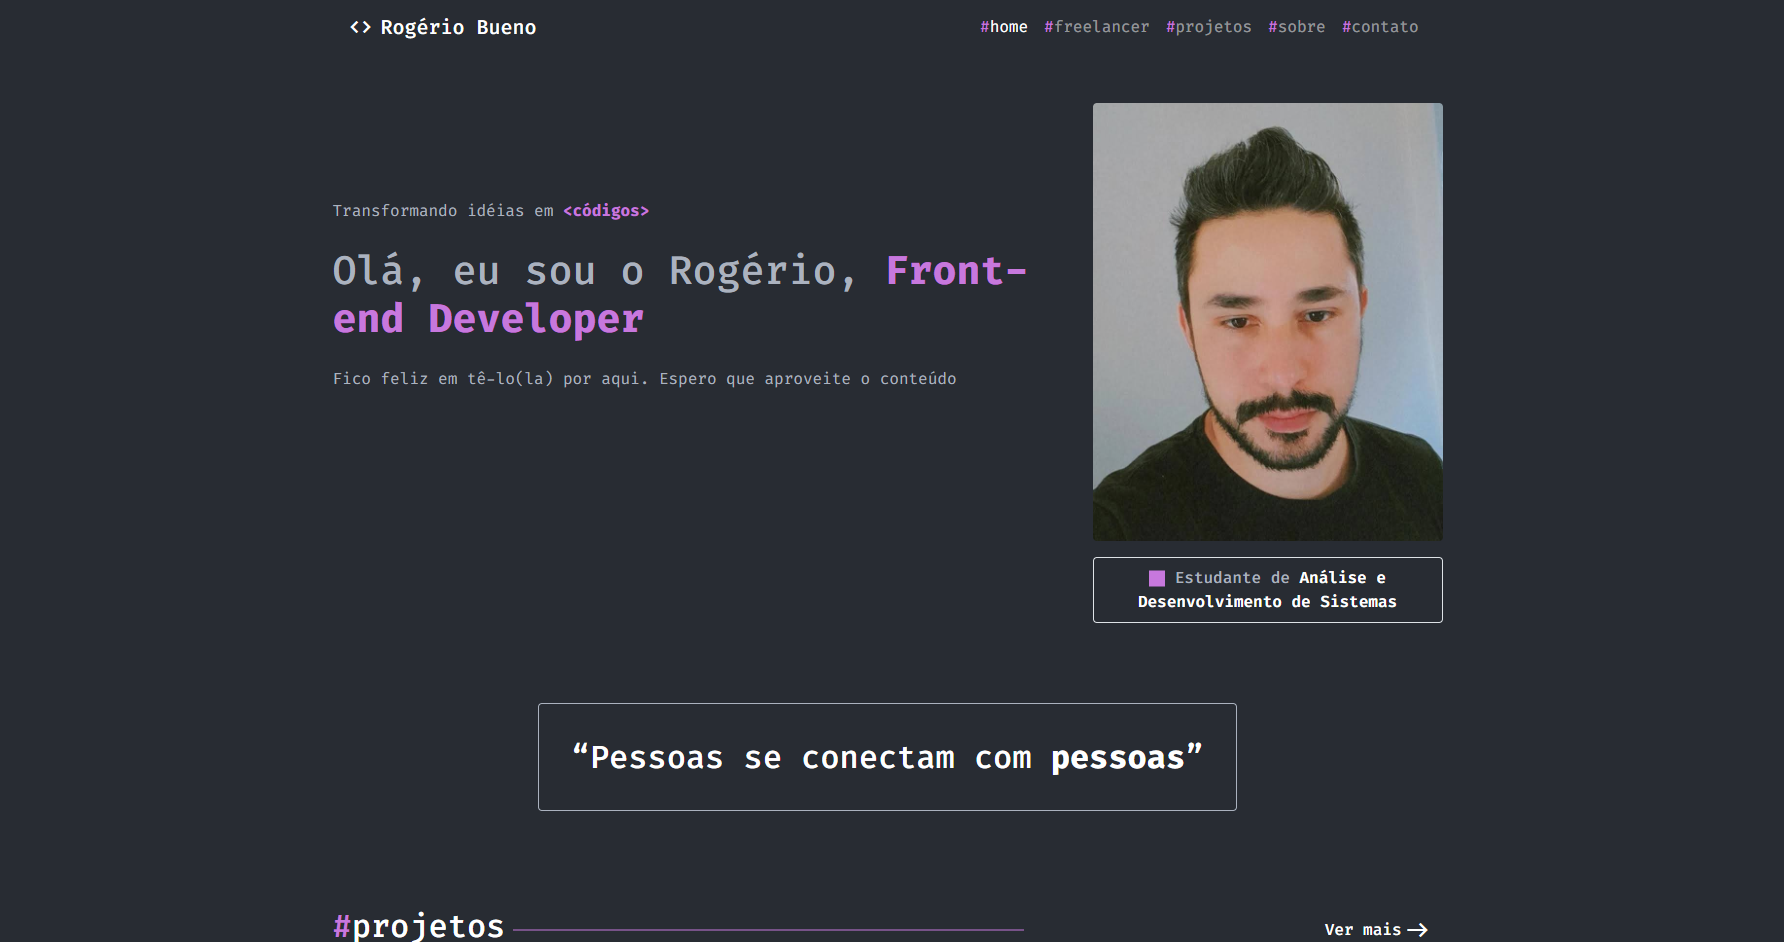
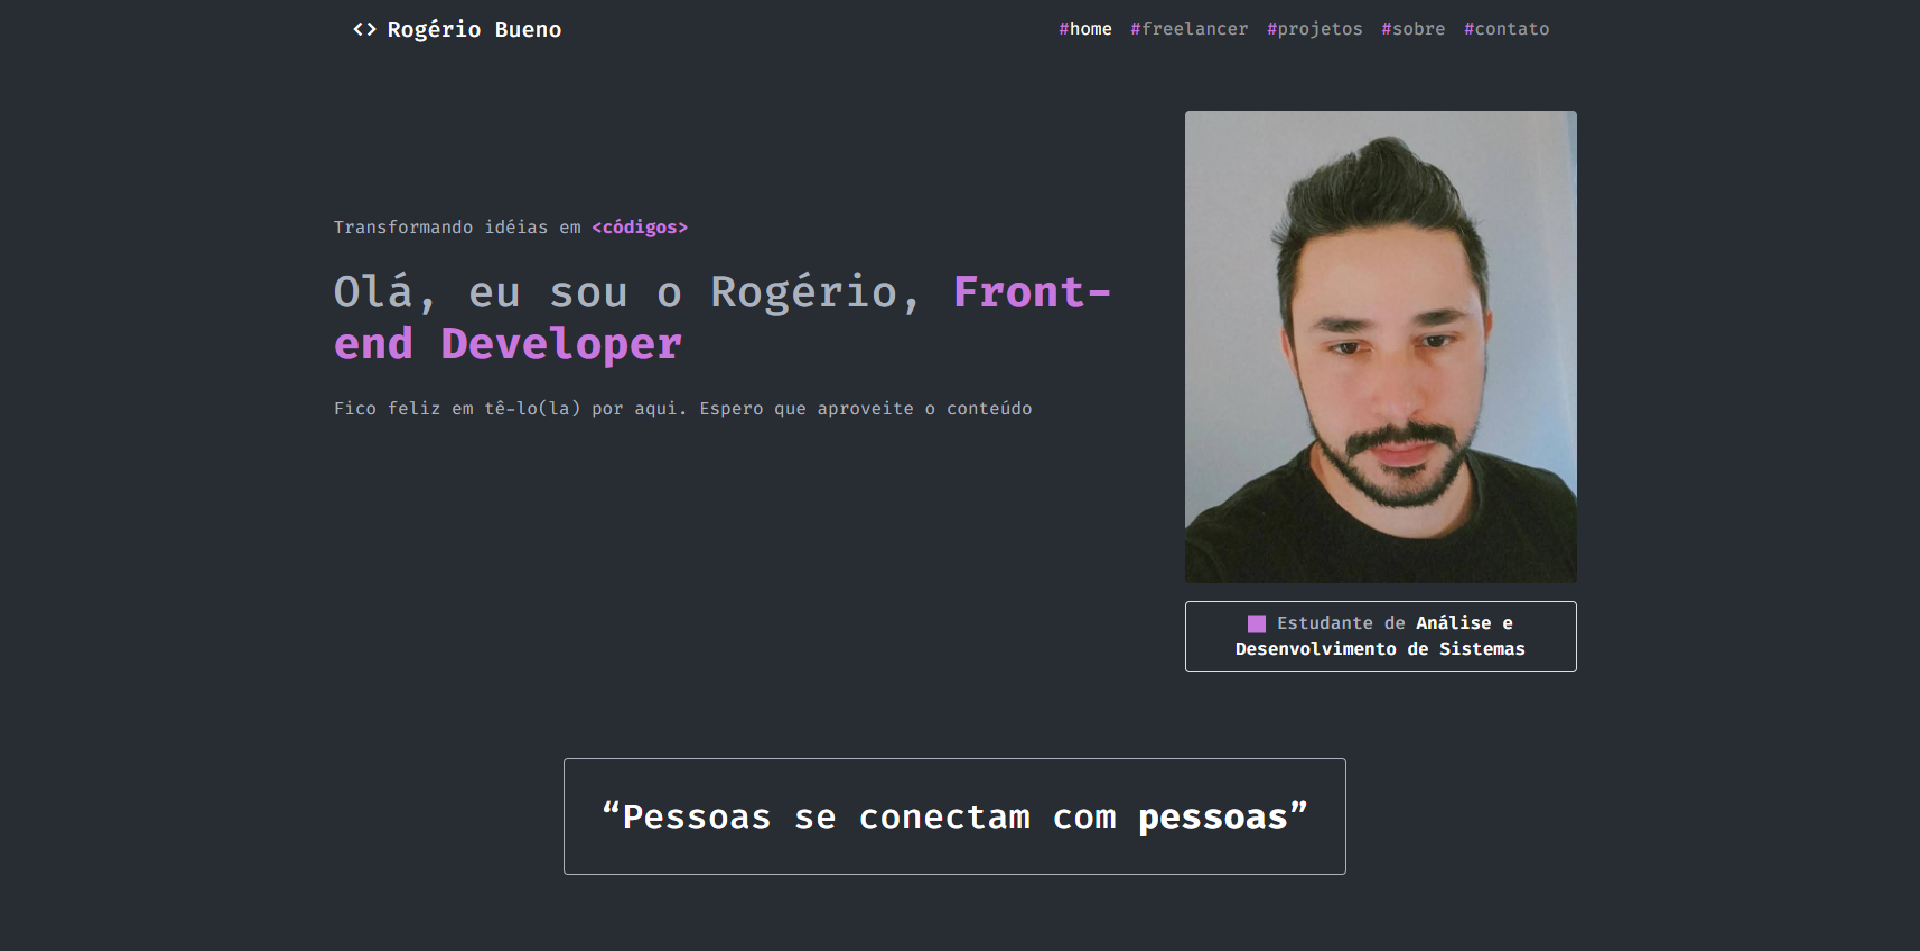
feat: Adiciona últimos projetos a seção últimos projetos da página 'Home'

diff --git a/index.html b/index.html
@@ -8,12 +8,13 @@
     <!-- Bootstrap CSS -->
     <link href="https://cdn.jsdelivr.net/npm/bootstrap@5.3.3/dist/css/bootstrap.min.css" rel="stylesheet"
         integrity="sha384-QWTKZyjpPEjISv5WaRU9OFeRpok6YctnYmDr5pNlyT2bRjXh0JMhjY6hW+ALEwIH" crossorigin="anonymous">
-        
+
     <link rel="shortcut icon" href="/assets/image/code.svg" type="image/x-icon">
     <link rel="stylesheet" href="/assets/css/colors.css">
     <link rel="stylesheet" href="/assets/css/styles.min.css">
     <link rel="stylesheet" href="/assets/css/navbar.css">
     <link rel="stylesheet" href="/assets/css/home-page.css">
+    <link rel="stylesheet" href="/assets/css/card.css">
     <link rel="stylesheet" href="/assets/css/footer.css">
     <!-- Phosphoricons -->
     <script src="https://unpkg.com/@phosphor-icons/web"></script>
@@ -24,7 +25,8 @@
         <nav class="navbar navbar-expand-lg container">
             <div class="container-fluid px-sm-0">
                 <a class="navbar-brand" href="/">
-                    <img src="/assets/image/code.svg" alt="Logo" width="30" height="24" class="d-inline-block align-text-top">
+                    <img src="/assets/image/code.svg" alt="Logo" width="30" height="24"
+                        class="d-inline-block align-text-top">
                     Rogério Bueno
                 </a>
                 <button class="navbar-toggler" type="button" data-bs-toggle="offcanvas"
@@ -66,7 +68,8 @@
         <section class="container my-5">
             <h1 class="display-4">Olá, eu sou o Rogério, Front-end Developer</h1>
             <p class="text-muted">Transformando idéias em &lt;códigos&gt;</p>
-            <a class="btn btn-secondary rounded-5 px-5 py-2 my-5" href="/assets/downloads/Currículo - Rogério Bueno.pdf" target="_blank" rel="noopener noreferrer">
+            <a class="btn btn-secondary rounded-5 px-5 py-2 my-5" href="/assets/downloads/Currículo - Rogério Bueno.pdf"
+                target="_blank" rel="noopener noreferrer">
                 Baixe o meu currículo
                 <i class="ph ph-arrow-line-up-right text-white"></i>
             </a>
@@ -74,24 +77,47 @@
         <section class="container my-5">
             <h2 class="my-5 h4">Últimos projetos</h2>
 
-            <div class="row g-4">
-                <div class="col-sm-3">
-                  <div class="card">
-                    <a href="https://rogerio-bueno.github.io/portfolio" target="_blank" rel="noopener noreferrer">
-                        <img src="/assets/image/portfolio-completo.png" class="card-img-top rounded" alt="Imagem de um site portfólio" title="Portfólio feito em Bootstrap 5">
-                        
-                    </a>
-                  </div>
-                </div>
-
-                <div class="col-sm-3">
-                    <div class="card">
-                      <a href="https://www.tinkercad.com/things/dLl77V2JD1Z-sensor-de-estacionamento" target="_blank" rel="noopener noreferrer">
-                          <img src="/assets/image/sensor-estacionamento-arduino.png" class="card-img-top rounded" alt="Imagem de um site portfólio" title="Sensor de estacionamento desenvolvido em C++">
-                          
-                      </a>
+            <div class="row row-cols-1 row-cols-md-3 g-4">
+                <div class="col">
+                    <div class="card h-100 border-0">
+                        <div class="card-body">
+                            <a href="https://rogerio-bueno.github.io/portfolio"
+                                class="link-dark link-underline link-underline-opacity-0" target="_blank"
+                                rel="noopener noreferrer">
+                                <img src="/assets/image/portfolio-completo.png" class="card-img"
+                                    alt="Captura de tela de um portfólio desenvolvido com Bootstrap, mostrando um layout responsivo e moderno com seções bem organizadas e elementos visuais atraentes."
+                                    title="Este é o meu portfólio, resultado do primeiro trimestre na faculdade de Análise e Desenvolvimento de Sistemas. Construído com os conhecimentos adquiridos até agora. Demonstrando não apenas o que aprendi, mas também minha dedicação em aplicá-los.">
+                            </a>
+                        </div>
                     </div>
-                  </div>
+                </div>
+                <div class="col">
+                    <div class="card h-100 border-0">
+                        <div class="card-body">
+                            <a href="https://rogerio-bueno.github.io/dio-classificador-de-nivel-de-heroi"
+                                class="link-dark link-underline link-underline-opacity-0" target="_blank"
+                                rel="noopener noreferrer">
+                                <img src="/assets/image/classificador-nivel-de-heroi.png" class="card-img"
+                                    alt="Captura de tela de um site classificador de níveis de heróis em um jogo, exibindo uma interface gráfica com informações sobre os personagens e seus respectivos níveis"
+                                    title="Este projeto é resultado da atividade prática proposta no bootcamp Potência Tech iFood - Programação do Zero da DIO (Digital Innovation One).">
+                            </a>
+                        </div>
+                    </div>
+                </div>
+                <div class="col">
+                    <div class="card h-100 border-0">
+                        <div class="card-body">
+                            <a href="https://www.tinkercad.com/things/dLl77V2JD1Z-sensor-de-estacionamento"
+                                class="link-dark link-underline link-underline-opacity-0" target="_blank"
+                                rel="noopener noreferrer">
+                                <img src="/assets/image/sensor-estacionamento-arduino.png" class="card-img"
+                                    alt="Diagrama esquemático de um circuito eletrônico, mostrando a disposição dos LEDs, do sensor ultrassônico e do buzzer, bem como as conexões entre eles"
+                                    title="
+                                    Este projeto é um dispositivo que utiliza um sensor ultrassônico para detectar a proximidade de objetos e alertar visual e auditivamente quando um objeto está dentro de zonas de perigo pré-definidas. Ele conta com quatro LEDs que indicam diferentes níveis de proximidade, e um buzzer que emite diferentes frequências de som conforme a distância do objeto. É uma solução útil para alertar sobre obstáculos em ambientes próximos, podendo ser aplicado em diversas situações onde a detecção de proximidade é crucial, como em sistemas de segurança ou assistência à navegação.">
+                            </a>
+                        </div>
+                    </div>
+                </div>
             </div>
         </section>
     </main>
